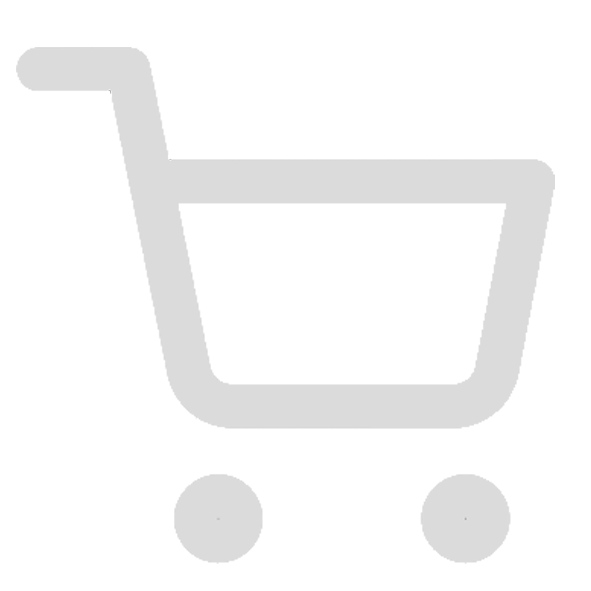
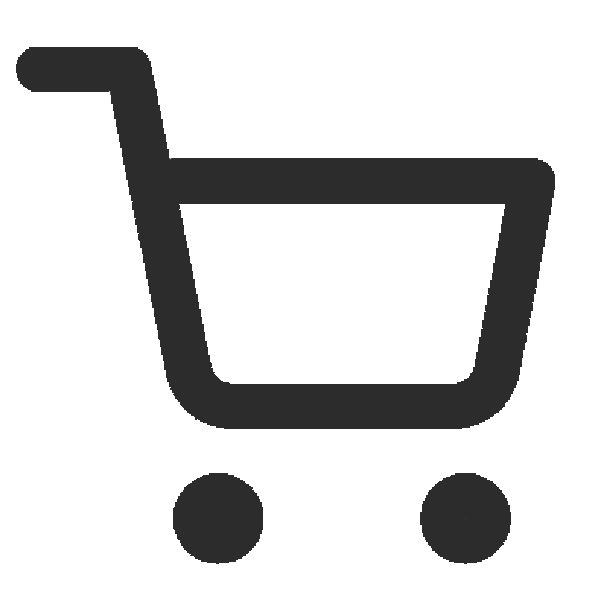
arreglo de lado derecho header

Changed region(s): [[0.0305, 0.0609, 0.9442, 0.731], [0.2741, 0.7919, 0.4569, 0.9746], [0.7005, 0.7919, 0.8832, 0.9746]]

diff --git a/tp2/css/header.css b/tp2/css/header.css
@@ -161,3 +161,43 @@
     background-color: var(--fondo-100);
     box-shadow: 0 0 8px rgba(255, 255, 255, 0.2);
 }
+/* Contenedor del avatar (el botón) */
+.avatar-btn {
+    width: 37px;
+    height: 37px;
+    border-radius: 50px;
+    overflow: hidden;
+    border: none;
+    padding: 0;
+    cursor: pointer;
+    background: none;
+}
+
+/* La imagen dentro del avatar */
+.avatar-img {
+    width: 100%;
+    height: 100%;
+    object-fit: cover;    /* Evita que la foto se deforme o estire si no es cuadrada */
+    display: block;
+}
+.cart-btn {
+    width: 37px;
+    height: 37px;
+    background-color: var(--color-primary);
+    border-radius: 50%;
+    border: none;
+    padding: 0;
+    cursor: pointer;
+
+
+    display: flex;
+    align-items: center;
+    justify-content: center;
+}
+
+/* El icono PNG adentro del círculo */
+.cart-icon {
+    width: 22px;
+    height: auto;
+    display: block;
+}

diff --git a/tp2/home.html b/tp2/home.html
@@ -42,10 +42,10 @@
         <!-- 3. Lado Derecho: Carrito + Avatar -->
         <div class="nav-right">
             <button class="cart-btn" aria-label="Carrito de compras">
-            🛒
+                <img src="assets/img/carrito.png" class="cart-icon" alt="Carrito" />
             </button>
             <button class="avatar-btn" aria-label="Menú de usuario">
-            <img src="avatar.jpg" alt="Perfil de usuario" />
+                <img src="assets/img/foto-perfil.png" class="avatar-img" alt="Perfil de usuario" />
             </button>
         </div>
     </header>

diff --git a/tp2/game.html b/tp2/game.html
@@ -42,10 +42,10 @@
     <!-- 3. Lado Derecho: Carrito + Avatar -->
     <div class="nav-right">
         <button class="cart-btn" aria-label="Carrito de compras">
-            🛒
+            <img src="assets/img/carrito.png" class="cart-icon" alt="Carrito" />
         </button>
         <button class="avatar-btn" aria-label="Menú de usuario">
-            <img src="avatar.jpg" alt="Perfil de usuario" />
+            <img src="assets/img/foto-perfil.png" class="avatar-img" alt="Perfil de usuario" />
         </button>
     </div>
 </header>
